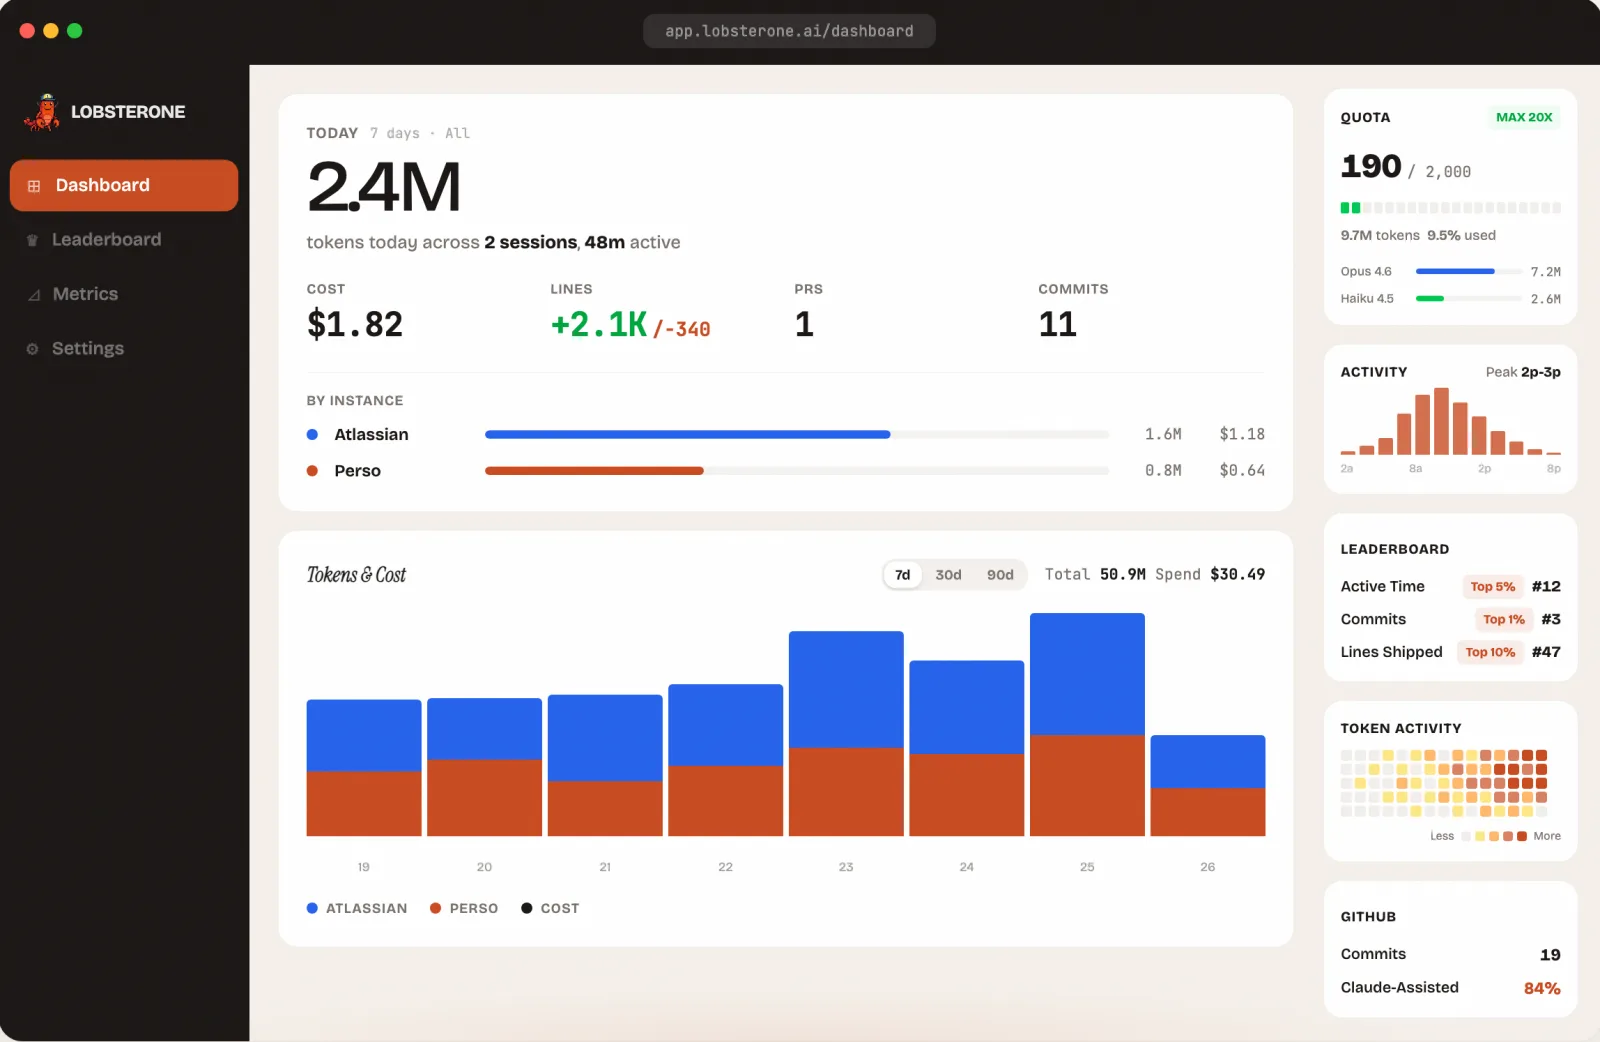
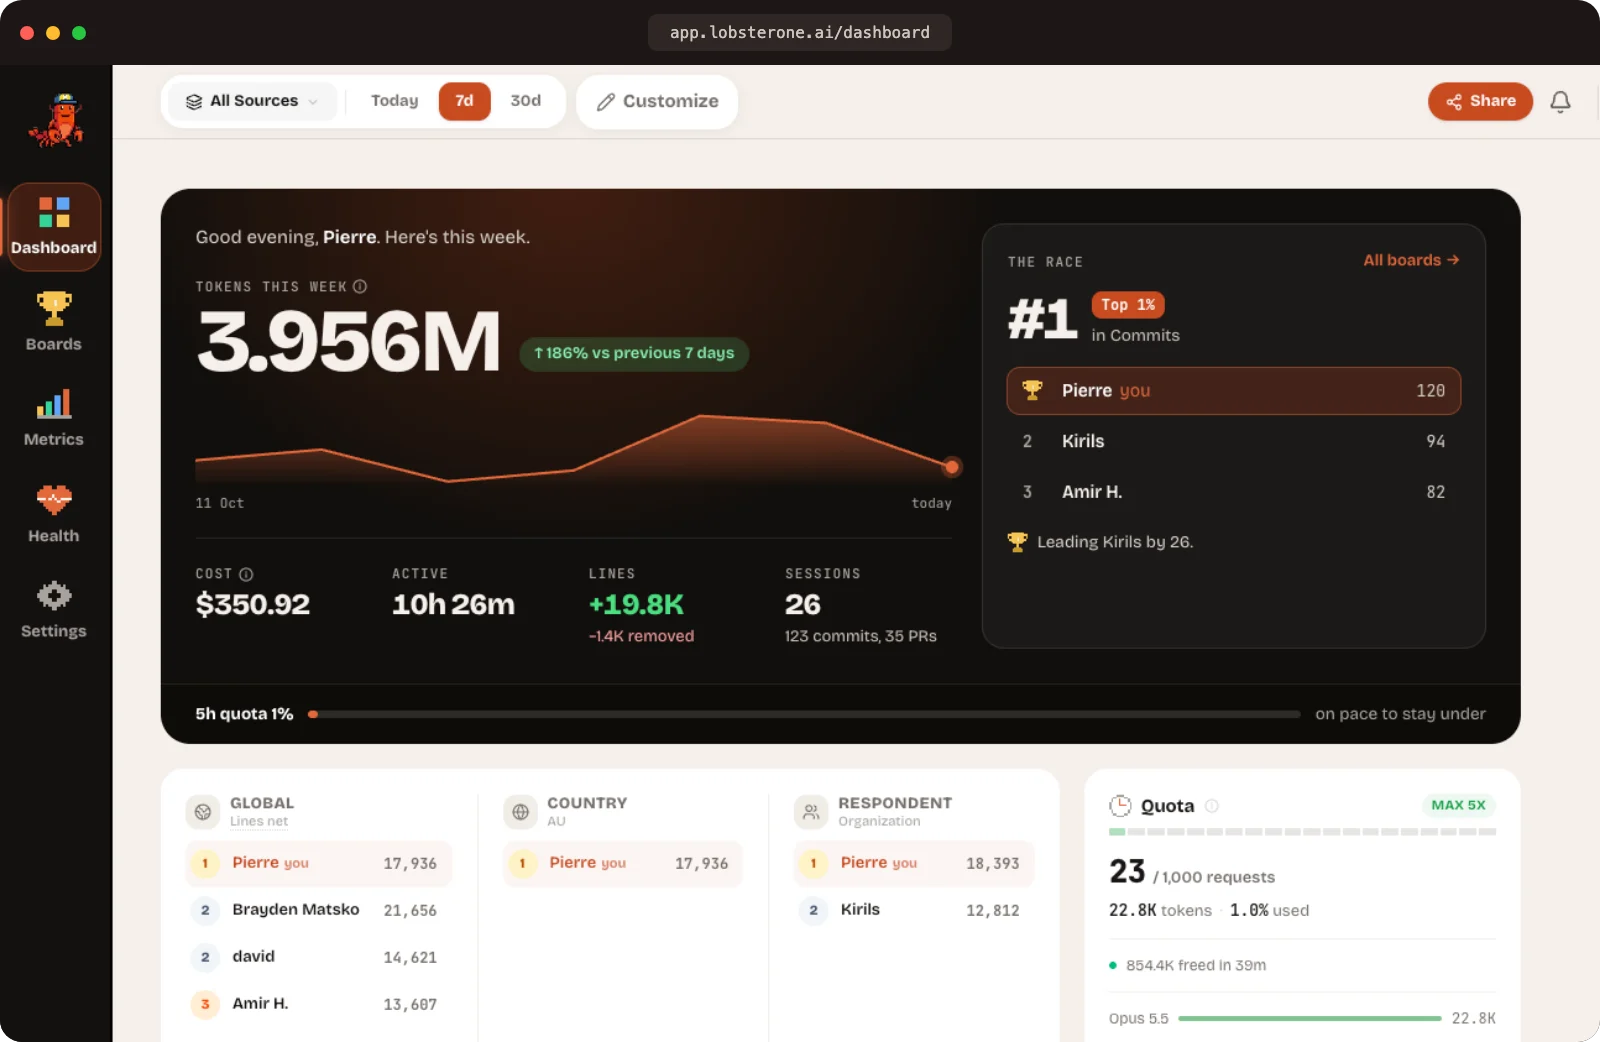
Refresh the LobsterOne screenshot
Claude-Session: https://claude.ai/code/session_015qAdCZybj7fHHUktM4J75d

diff --git a/index.html b/index.html
@@ -298,7 +298,7 @@ footer nav{display:flex;gap:1.2rem}footer a:hover{color:var(--ink)}
  <section id="building"><div class="wide-head"><div><div class="sh"><h2>Building now</h2><span class="note">Always Be Shipping</span></div>
    <p>Four products, designed, built and run by one person. Each has a full case study: architecture, numbers and lessons learned.</p></div>
   <div class="arrows"><button class="rnd" type="button" data-rail="-1" aria-label="Previous product">←</button><button class="rnd" type="button" data-rail="1" aria-label="Next product">→</button></div></div>
-  <div class="rail" aria-label="Products"><article class="pc" style="--pcol:#dc2626"><div class="img"><img src="img/cases/lobsterone.webp" alt="" loading="lazy" width="1600" height="900"><div class="peek" aria-hidden="true"><span>Open the case study</span></div></div><div class="bd">
+  <div class="rail" aria-label="Products"><article class="pc" style="--pcol:#dc2626"><div class="img"><img src="img/cases/lobsterone.webp?v=2" alt="" loading="lazy" width="1600" height="900"><div class="peek" aria-hidden="true"><span>Open the case study</span></div></div><div class="bd">
  <div class="nm"><img src="icons/lobsterone.png" alt="" width="64" height="64"><h3><a class="cover" href="lobsterone/">LobsterOne</a></h3><span class="tag ">Live</span></div>
  <p class="hk">Made AI coding usage measurable across every tool.</p><p>A Mac menu bar app and web dashboard that track tokens, cost and output across Claude Code, Codex, Cursor and Mistral Vibe.</p>
  <div class="num"><b>1.93B</b> <span>tokens tracked</span></div>

diff --git a/lobsterone/index.html b/lobsterone/index.html
@@ -90,7 +90,7 @@
   <div class="eyebrow"><img src="../icons/lobsterone.png" alt="" width="160" height="160">Case study · LobsterOne</div>
   <h1>LobsterOne Case Study</h1>
   <p class="lede">LobsterOne shows developers and teams how they actually use AI coding tools: tokens, cost, sessions, lines of code and quota, across Claude Code, Codex, Cursor and other assistants, with personal dashboards and team and global leaderboards. I designed, built and run the whole system solo, from the first commit in March 2026: a native Mac menu bar app, an AWS serverless ingest and analytics backend, the web dashboard, an admin backoffice and the marketing site.</p>
-  <figure class="shot"><img src="../img/cases/lobsterone.webp" width="1600" height="1042" alt="The LobsterOne web dashboard with tokens, cost, quota and activity" fetchpriority="high"><figcaption>The LobsterOne web dashboard: tokens, cost, quota, activity and leaderboard rank, as shown on lobsterone.ai</figcaption></figure>
+  <figure class="shot"><img src="../img/cases/lobsterone.webp?v=2" width="1600" height="1042" alt="The LobsterOne web dashboard with weekly tokens, cost, leaderboards and quota" fetchpriority="high"><figcaption>The LobsterOne web dashboard: tokens, cost, quota, activity and leaderboard rank, as shown on lobsterone.ai</figcaption></figure>
 </header>
 
 <article>
